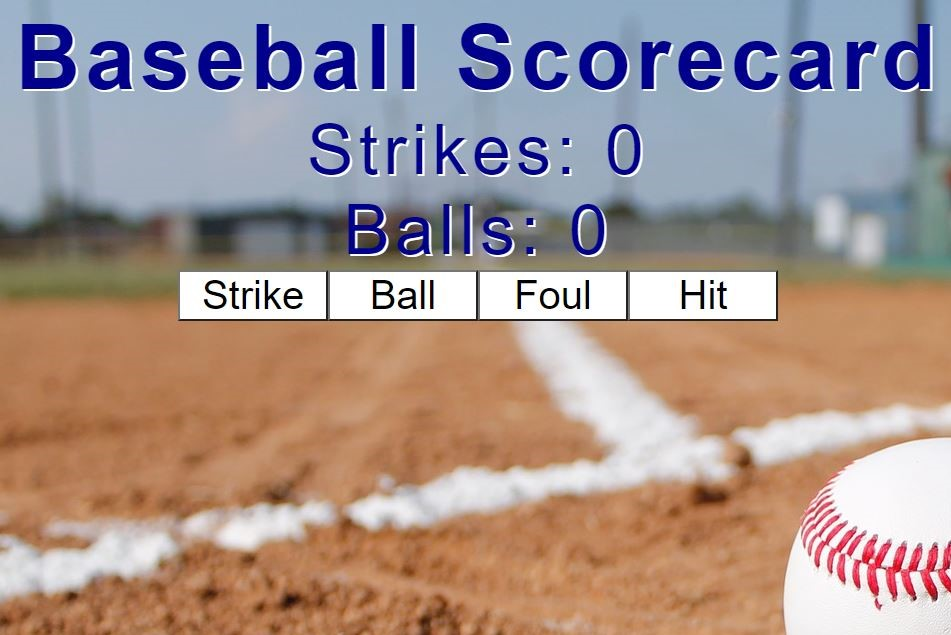
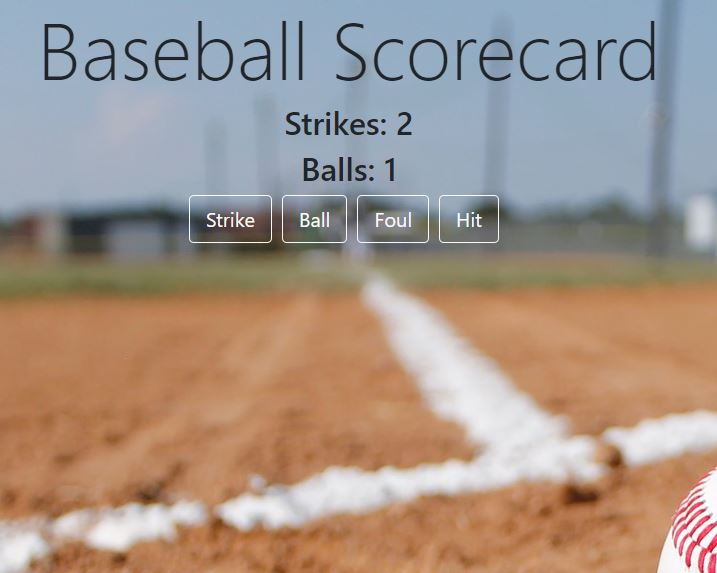
updated styling and screenshots

diff --git a/src/Pages/About.js b/src/Pages/About.js
@@ -7,7 +7,6 @@ function About(props) {
       <h2>David Millen
         <br/>
       <small class="text-muted">Software Developer</small></h2>
-      <img src="https://images.pexels.com/photos/248515/pexels-photo-248515.png"></img>
       <div class="bio"> 
       <div class="lead">       
         <ul>Experience with:

diff --git a/src/Pages/Jumbotron.js b/src/Pages/Jumbotron.js
@@ -17,8 +17,9 @@ const Styles = styled.div`
 .overlay {
     text-align: center;
     background-color: #000;
-    opacity: 0.6;
-    position: absolute;
+    opacity: 0;
+    position: relative;
+    height: 80%;
     top: 0;
     left: 0;
     bottom: 0;

diff --git a/src/index.js b/src/index.js
@@ -4,6 +4,7 @@ import './index.css';
 import App from './App';
 import reportWebVitals from './reportWebVitals';
 
+
 ReactDOM.render(
   <React.StrictMode>
     <App />

diff --git a/src/App.css b/src/App.css
@@ -167,4 +167,3 @@ body {
   margin-top: 80px;
   margin-bottom: 30px;
 }
-
